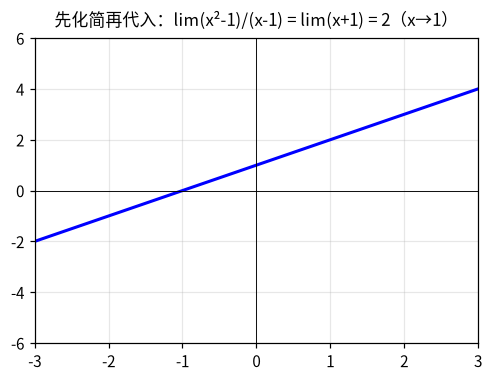
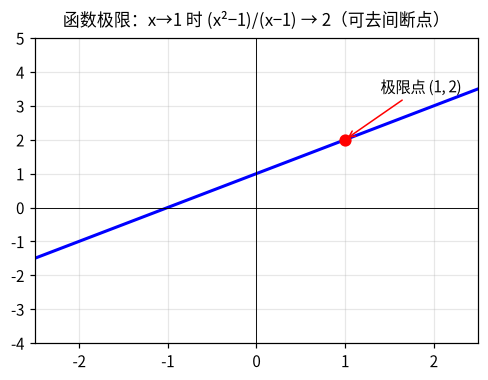
每日清单 2026-08-15

diff --git a/index.html b/index.html
@@ -57,9 +57,9 @@
 <div class="card open">
   <div class="card-head"><span class="arrow">▶</span><span class="card-title">🧩 LeetCode 每日一题：Maximum Length Substring With Two Occurrences</span><span class="tag easy">Easy</span></div>
   <div class="card-body">
-    <div class="q">给你一个字符串 s，请你找出满足「每个字符至多出现两次」的最长子串的长度。示例 1：s = "bcbbbcba"，输出 4，最长满足条件的子串为 "bcba"（b 出现 2 次、c 出现 1 次、a 出现 1 次）。示例 2：s = "aaaa"，输出 2。</div>
-    <div class="exp"><b>💡 解题思路：</b>滑动窗口：用右指针扩展窗口并把新字符计数加 1，一旦某字符出现次数超过 2，就用左指针收缩窗口直到重新满足条件；每次用当前窗口长度更新答案。窗口内始终保持所有字符频次 ≤ 2。</div>
-    <div class="exp"><b>🔧 题解：</b>双指针滑动窗口，一次遍历即可求出全局最长合法子串：窗口合法 ⇔ 每个字符频次 ≤ 2。时间复杂度 O(n)（每个字符至多进出窗口一次），空间复杂度 O(1)（仅需统计 26 个小写字母）。题目规模 n ≤ 50，暴力枚举所有子串 O(n²) 也可行，但滑动窗口是最优写法。</div>
+    <div class="q">给你一个字符串 s，请找出满足「每个字符至多出现两次」的最长子串的长度。示例 1：s = "bcbbbcba"，最长合法子串为 "bcba"（b 出现 2 次、c 出现 1 次、a 出现 1 次），答案为 4。示例 2：s = "aaaa"，每个字符至多出现 2 次，答案为 2。</div>
+    <div class="exp"><b>💡 解题思路：</b>滑动窗口（双指针）：右指针逐个加入字符并计数，一旦某字符频次超过 2，就左移左指针并减少对应计数，直到窗口重新合法；每次用 right − left + 1 更新答案。窗口内任意时刻所有字符频次 ≤ 2。</div>
+    <div class="exp"><b>🔧 题解：</b>一次遍历 O(n)：每个字符最多进、出窗口各一次；只需统计 26 个小写字母，计数数组/字典空间 O(1)。本题 n ≤ 50，暴力枚举所有子串 O(n²) 也可行，但滑动窗口是经典双指针模板写法，务必掌握。</div>
     <pre class="code">class Solution:
     def maximumLengthSubstring(self, s: str) -&gt; int:
         cnt = {}
@@ -77,108 +77,108 @@
 </div>
 <div class="group"><div class="group-title">📐 数学知识点 <span class="badge">4 项</span></div>
 <div class="card open">
-  <div class="card-head"><span class="arrow">▶</span><span class="card-title">📐 高数·第1天·极限：数列极限ε-N定义</span><span class="tag book">D1</span></div>
+  <div class="card-head"><span class="arrow">▶</span><span class="card-title">📐 高数·第1天·极限：数列极限 ε-N 定义</span><span class="tag book">D1</span></div>
   <div class="card-body">
-    <div class="q">lim x_n=a ⟺ ∀ε&gt;0,∃N, n&gt;N⟹|x_n-a|&lt;ε</div>
-    <div class="exp"><b>📌 要点：</b>量词顺序：先ε后N</div>
-    
-    <div class="exp" style="margin-top:6px">对任意<b style="color:#d48806">＿＿＿</b>，存在<b style="color:#d48806">＿＿＿</b>，当n&gt;N时恒有<b style="color:#d48806">＿＿＿</b></div><button class="ans-btn" style="font-size:12px;padding:4px 12px">✅ 答案</button><div class="ans-box"><div class="ans">ε&gt;0；正整数N；|x_n-a|&lt;ε</div></div>
-    
+    <div class="q">lim(n→∞) x_n = a ⟺ ∀ε&gt;0，∃N∈N*，当 n&gt;N 时恒有 |x_n − a| &lt; ε</div>
+    <div class="exp"><b>📌 要点：</b>核心是量词顺序「先 ε 后 N」：ε 任意小刻画逼近程度，N = N(ε) 刻画『足够远』，ε 越小 N 通常越大。数列极限只与后面无穷多项有关，改变或删去前有限项不影响极限。</div>
+    <div class="exp">• ε 的任意性：必须对任意 ε&gt;0 都成立，ε 越小要求越高</div><div class="exp">• N 的存在性：N 一般依赖 ε，记作 N(ε)，只要求存在、不要求最小</div><div class="exp">• 收敛数列必有界，且极限唯一（有界是收敛的必要条件，非充分）</div>
+    <div class="exp" style="margin-top:6px">对任意<b style="color:#d48806">＿＿＿</b>，存在<b style="color:#d48806">＿＿＿</b>，当 n&gt;N 时恒有<b style="color:#d48806">＿＿＿</b></div><button class="ans-btn" style="font-size:12px;padding:4px 12px">✅ 答案</button><div class="ans-box"><div class="ans">ε&gt;0；正整数 N；|x_n − a| &lt; ε</div></div>
+    <div class="exp"><b>🧭 套路：</b>证明套路：由 |x_n − a| 放大估计出 n 的下界，令 N 取该下界的取整加 1，再按定义格式书写。</div>
     
   </div>
  </div>
 <div class="card open">
-  <div class="card-head"><span class="arrow">▶</span><span class="card-title">📐 高数·第1天·极限：函数极限ε-δ定义</span><span class="tag book">D1</span></div>
+  <div class="card-head"><span class="arrow">▶</span><span class="card-title">📐 高数·第1天·极限：函数极限 ε-δ 定义</span><span class="tag book">D1</span></div>
   <div class="card-body">
-    <div class="q">lim f(x)=A ⟺ ∀ε&gt;0,∃δ&gt;0, 0&lt;|x-x0|&lt;δ⟹|f(x)-A|&lt;ε</div>
-    <div class="exp"><b>📌 要点：</b>δ是去心邻域半径，x≠x0</div>
-    
-    <div class="exp" style="margin-top:6px">对任意<b style="color:#d48806">＿＿＿</b>，存在<b style="color:#d48806">＿＿＿</b>，当0&lt;|x-x0|&lt;δ时恒有<b style="color:#d48806">＿＿＿</b></div><button class="ans-btn" style="font-size:12px;padding:4px 12px">✅ 答案</button><div class="ans-box"><div class="ans">ε&gt;0；δ&gt;0；|f(x)-A|&lt;ε</div></div>
-    
-    
+    <div class="q">lim(x→x₀) f(x) = A ⟺ ∀ε&gt;0，∃δ&gt;0，当 0&lt;|x − x₀|&lt;δ 时恒有 |f(x) − A| &lt; ε</div>
+    <div class="exp"><b>📌 要点：</b>δ 是 x₀ 的去心邻域半径，条件 0&lt;|x−x₀| 强调 x≠x₀：极限与 f(x₀) 是否有定义、取何值无关（如 (x²−1)/(x−1) 在 x=1 处无定义，但极限为 2）。δ 一般依赖 ε，也随 x₀ 变化。</div>
+    <div class="exp">• 去心邻域：0&lt;|x−x₀|&lt;δ，极限与 f(x₀) 无关</div><div class="exp">• δ=δ(ε)：δ 随 ε 变小而变小，证明时先放缩再取 δ</div><div class="exp">• 单侧极限：左、右极限存在且相等 ⟺ 极限存在</div>
+    <div class="exp" style="margin-top:6px">对任意<b style="color:#d48806">＿＿＿</b>，存在<b style="color:#d48806">＿＿＿</b>，当 0&lt;|x−x₀|&lt;δ 时恒有<b style="color:#d48806">＿＿＿</b></div><button class="ans-btn" style="font-size:12px;padding:4px 12px">✅ 答案</button><div class="ans-box"><div class="ans">ε&gt;0；δ&gt;0；|f(x) − A| &lt; ε</div></div>
+    <div class="exp"><b>🧭 套路：</b>证明套路：先把 |f(x)−A| 放缩成 k·|x−x₀| 的形式，再取 δ = ε/k（必要时加限制 δ≤1 处理分母）。</div>
+    <img src="images/2026-08-15_1.png" style="width:100%;border-radius:10px;margin-top:10px;border:1px solid #e5e7eb">
   </div>
  </div>
 <div class="card open">
   <div class="card-head"><span class="arrow">▶</span><span class="card-title">📐 线代·行列式与矩阵：余子式与代数余子式</span><span class="tag book">行列式与矩阵</span></div>
   <div class="card-body">
-    <div class="q">A_ij=(-1)^(i+j)M_ij；|A|=Σa_ijA_ij</div>
-    <div class="exp"><b>📌 要点：</b>余子式：删去i行j列的n-1阶行列式；代数余子式带符号；按行(列)展开定理；异行元素×另一行代数余子式之和=0</div>
-    
-    <div class="exp" style="margin-top:6px">默写核心结论：<b style="color:#d48806">＿＿＿</b></div><button class="ans-btn" style="font-size:12px;padding:4px 12px">✅ 答案</button><div class="ans-box"><div class="ans">A_ij=(-1)^(i+j)M_ij；|A|=Σa_ijA_ij</div></div>
-    
+    <div class="q">M_ij 为余子式；A_ij = (−1)^(i+j)·M_ij；|A| = Σ a_ij·A_ij（按第 i 行展开）</div>
+    <div class="exp"><b>📌 要点：</b>余子式 M_ij：划去第 i 行、第 j 列后剩下的 n−1 阶行列式；代数余子式 A_ij = (−1)^(i+j)·M_ij。按行（列）展开定理：|A| 等于任一行（列）的元素与其对应代数余子式乘积之和，这是高阶行列式降阶计算的核心工具。</div>
+    <div class="exp">• 符号规律：符号 (−1)^(i+j) 呈棋盘状交替，主对角线方向为 + − +</div><div class="exp">• 展开定理：任选一行（列）展开均相等，选 0 最多的行（列）计算量最小</div><div class="exp">• 异乘变零：第 i 行元素与第 j 行（i≠j）对应代数余子式乘积之和 = 0</div>
+    <div class="exp" style="margin-top:6px">默写核心结论：<b style="color:#d48806">＿＿＿</b></div><button class="ans-btn" style="font-size:12px;padding:4px 12px">✅ 答案</button><div class="ans-box"><div class="ans">A_ij = (−1)^(i+j)·M_ij；|A| = Σ a_ij·A_ij</div></div>
+    <div class="exp"><b>🧭 套路：</b>高阶行列式先做行（列）变换化出 0，再按 0 最多的行（列）展开降阶，直到化成三角行列式或二阶。</div>
     
   </div>
  </div>
 <div class="card open">
   <div class="card-head"><span class="arrow">▶</span><span class="card-title">📐 线代·行列式与矩阵：初等矩阵</span><span class="tag book">行列式与矩阵</span></div>
   <div class="card-body">
-    <div class="q">E(i,j)、E(i(k))、E(ij(k))；|E(i,j)|=-1,|E(i(k))|=k,|E(ij(k))|=1</div>
-    <div class="exp"><b>📌 要点：</b>单位阵经一次初等变换；三种类型；逆为同类型初等矩阵；行变换左乘、列变换右乘</div>
-    
-    <div class="exp" style="margin-top:6px">默写核心结论：<b style="color:#d48806">＿＿＿</b></div><button class="ans-btn" style="font-size:12px;padding:4px 12px">✅ 答案</button><div class="ans-box"><div class="ans">E(i,j)、E(i(k))、E(ij(k))；|E(i,j)|=-1,|E(i(k))|=k,|E(ij(k))|=1</div></div>
-    
-    
+    <div class="q">E(i,j)、E(i(k))、E(ij(k))；|E(i,j)| = −1，|E(i(k))| = k，|E(ij(k))| = 1</div>
+    <div class="exp"><b>📌 要点：</b>初等矩阵 = 单位阵 E 经一次初等变换所得：E(i,j) 交换 i、j 两行（列）；E(i(k)) 第 i 行乘非零常数 k；E(ij(k)) 把第 j 行（列）的 k 倍加到第 i 行（列）。左乘作行变换、右乘作列变换；初等矩阵均可逆，逆仍为同类型初等矩阵。</div>
+    <div class="exp">• 左乘行变、右乘列变：E·A 相当于对 A 做相应行变换，A·E 做列变换</div><div class="exp">• 行列式：|E(i,j)| = −1、|E(i(k))| = k、|E(ij(k))| = 1（初等矩阵均可逆 ⟹ 行列式 ≠ 0）</div><div class="exp">• 逆矩阵：E(i,j)⁻¹ = E(i,j)，E(i(k))⁻¹ = E(i(1/k))，E(ij(k))⁻¹ = E(ij(−k))</div>
+    <div class="exp" style="margin-top:6px">默写核心结论：<b style="color:#d48806">＿＿＿</b></div><button class="ans-btn" style="font-size:12px;padding:4px 12px">✅ 答案</button><div class="ans-box"><div class="ans">E(i,j)、E(i(k))、E(ij(k))；|E(i,j)| = −1，|E(i(k))| = k，|E(ij(k))| = 1</div></div>
+    <div class="exp"><b>🧭 套路：</b>快速判断：先看是否由单位阵一次初等变换得到；做题时先确定是行变换还是列变换（左乘/右乘），再套行列式结论。</div>
+    <img src="images/2026-08-15_3.png" style="width:100%;border-radius:10px;margin-top:10px;border:1px solid #e5e7eb">
   </div>
  </div>
 </div>
 <div class="group"><div class="group-title">💻 408 选择题 <span class="badge">5 题</span></div>
 <div class="card open">
-  <div class="card-head"><span class="arrow">▶</span><span class="card-title">设 F(1)=F(2)=1，当 n≥3 时 F(n)=F(n-1)+F(n-2)。若用直接递归算法计算 F(n)，且每次递归调用仅需常数级辅助空间，则该算法的时间复杂度和空间复杂度分别是（　）？</span><span class="tag book">数据结构</span><span class="tag easy">简单</span></div>
+  <div class="card-head"><span class="arrow">▶</span><span class="card-title">在一个长度为 100 的顺序表中插入一个新元素，若插入位置（含表尾共 101 个位置）等概率，则平均需要移动的元素个数是（　）。</span><span class="tag book">数据结构</span><span class="tag easy">简单</span></div>
   <div class="card-body">
-    <div class="q"><div class="opt">A. O(2ⁿ)、O(n)</div><div class="opt">B. O(2ⁿ)、O(2ⁿ)</div><div class="opt">C. O(n²)、O(n)</div><div class="opt">D. O(n)、O(n)</div></div>
-    
-    <button class="ans-btn">✅ 查看答案与解析</button>
-    <div class="ans-box">
-      <div class="ans">答案：A</div>
-      <div class="exp"><b>📖 解析：</b>直接递归计算斐波那契会展开成一棵递归二叉树，结点总数约为 2ⁿ 量级，因此时间 O(2ⁿ)。而空间复杂度看的是递归工作栈的最大深度：从 F(n) 一路递归到 F(1)，调用栈最深为 n 层，每层仅常数空间，故空间 O(n)。考点回顾：算法的时间复杂度取决于基本操作执行次数（递归树结点数），空间复杂度取决于递归栈的最大深度，二者不要混淆。</div>
-    </div>
-  </div>
- </div>
-<div class="card open">
-  <div class="card-head"><span class="arrow">▶</span><span class="card-title">某 CPU 主频为 2 GHz，运行某程序时平均 CPI 为 4，则该程序在该 CPU 上的运行速度约为（　）MIPS？</span><span class="tag book">计组</span><span class="tag easy">简单</span></div>
-  <div class="card-body">
-    <div class="q"><div class="opt">A. 250</div><div class="opt">B. 500</div><div class="opt">C. 1000</div><div class="opt">D. 2000</div></div>
+    <div class="q"><div class="opt">A. 49</div><div class="opt">B. 50</div><div class="opt">C. 51</div><div class="opt">D. 99</div></div>
     
     <button class="ans-btn">✅ 查看答案与解析</button>
     <div class="ans-box">
       <div class="ans">答案：B</div>
-      <div class="exp"><b>📖 解析：</b>每秒执行的指令条数 = 主频 / CPI = 2×10⁹ / 4 = 5×10⁸ 条，即 500 MIPS。也可直接套公式 MIPS = f / (CPI×10⁶) = 2000 / 4 = 500。注意 CPI 越大说明每条指令平均耗时越长，速度越慢；且 MIPS 只在同指令集体系下可比，跨体系比较可能失真（可用 MFLOPS 或运行时间补充衡量）。考点回顾：主频、CPI、指令条数与执行时间的关系为 T = 指令数 × CPI / 主频。</div>
+      <div class="exp"><b>📖 解析：</b>在第 i 个位置（1≤i≤n+1）插入需移动 n−i+1 个元素，等概率时平均移动次数 = (n + (n−1) + … + 0) / (n+1) = n/2 = 50。注意插入有 n+1 个可能位置，所以平均是 n/2 而不是 (n+1)/2；对比删除操作：删除有 n 个可能位置，平均移动 (n−1)/2 个。两者时间复杂度都是 O(n)，这正是顺序表插入删除低效的根源（随机存取、物理连续）。</div>
     </div>
   </div>
  </div>
 <div class="card open">
-  <div class="card-head"><span class="arrow">▶</span><span class="card-title">下列关于系统调用的叙述中，正确的是（　）？</span><span class="tag book">OS</span><span class="tag mid">中等</span></div>
+  <div class="card-head"><span class="arrow">▶</span><span class="card-title">某程序的串行部分占 40%，其余 60% 可并行执行。若将并行部分加速到原来的 4 倍，则整个程序的加速比约为（　）。</span><span class="tag book">计算机组成原理</span><span class="tag easy">简单</span></div>
   <div class="card-body">
-    <div class="q"><div class="opt">A. 陷入指令（访管指令）由内核态执行，用于完成系统调用服务</div><div class="opt">B. 系统调用与库函数完全等价，所有库函数都是系统调用的封装</div><div class="opt">C. 用户程序通过陷入指令请求操作系统内核服务，执行时 CPU 由用户态切换到内核态</div><div class="opt">D. 系统调用的参数只能通过寄存器传递，不能存放在内存中</div></div>
+    <div class="q"><div class="opt">A. 1.56</div><div class="opt">B. 1.82</div><div class="opt">C. 2.17</div><div class="opt">D. 2.50</div></div>
+    
+    <button class="ans-btn">✅ 查看答案与解析</button>
+    <div class="ans-box">
+      <div class="ans">答案：B</div>
+      <div class="exp"><b>📖 解析：</b>Amdahl 定律：S = 1 / ((1−f) + f/k)，其中 f = 0.6 为可加速部分占比，k = 4 为该部分加速倍数，1−f = 0.4 为不可加速部分。代入得 S = 1 / (0.4 + 0.6/4) = 1 / 0.55 ≈ 1.82。关键结论：即使并行部分无限加速（k→∞），加速比也至多趋近 1/(1−f) = 2.5——串行部分占比是性能瓶颈，这就是 Amdahl 定律的核心思想。</div>
+    </div>
+  </div>
+ </div>
+<div class="card open">
+  <div class="card-head"><span class="arrow">▶</span><span class="card-title">下列关于进程的叙述中，正确的是（　）。</span><span class="tag book">操作系统</span><span class="tag mid">中等</span></div>
+  <div class="card-body">
+    <div class="q"><div class="opt">A. 进程是程序的一次执行过程，一个程序只能对应一个进程</div><div class="opt">B. 进程具有动态性、并发性、独立性、异步性，其中并发性指进程按各自独立的、不可预知的速度向前推进</div><div class="opt">C. 进程是资源分配的基本单位，线程是 CPU 调度的基本单位，同一进程内的线程共享该进程的资源</div><div class="opt">D. 进程与程序都是动态的概念，二者的区别仅在于进程分配了内存而程序没有</div></div>
     
     <button class="ans-btn">✅ 查看答案与解析</button>
     <div class="ans-box">
       <div class="ans">答案：C</div>
-      <div class="exp"><b>📖 解析：</b>A 错：陷入指令本身在用户态执行，它的作用是引起中断、把 CPU 从用户态切换到内核态，真正执行系统调用服务程序的是内核。B 错：部分库函数（如 printf 内部调用 write）确实封装了系统调用，但大量纯计算类库函数（如 strlen、sqrt）不涉及系统调用。C 对：陷入指令是用户程序请求内核服务的唯一途径，执行后特权级由用户态切换为内核态。D 错：系统调用参数可通过寄存器、堆栈或内存块等传递。考点回顾：系统调用 = 陷入指令（用户态执行）+ 内核态服务程序，参数传递方式多样。</div>
+      <div class="exp"><b>📖 解析：</b>A 错：一个程序可对应多个进程（如多用户同时运行同一程序，各有一个进程）。B 错：把两个特征的定义说反了——并发性指多个进程同存于内存中、在一段时间内交替运行；异步性才指进程按各自独立的、不可预知的速度向前推进。C 对：引入线程后，进程是资源分配的基本单位，线程是调度的基本单位，同一进程的线程共享地址空间与资源。D 错：程序是静态的（指令序列），进程是动态的（程序的一次执行），且进程拥有 PCB 等结构，区别远不止内存分配。</div>
     </div>
   </div>
  </div>
 <div class="card open">
-  <div class="card-head"><span class="arrow">▶</span><span class="card-title">在 TCP/IP 五层参考模型中，数据链路层的协议数据单元（PDU）是（　）？</span><span class="tag book">网络</span><span class="tag easy">简单</span></div>
+  <div class="card-head"><span class="arrow">▶</span><span class="card-title">下列关于编码与调制的叙述中，正确的是（　）。</span><span class="tag book">计算机网络</span><span class="tag easy">简单</span></div>
   <div class="card-body">
-    <div class="q"><div class="opt">A. 报文（message）</div><div class="opt">B. 报文段（segment）</div><div class="opt">C. 数据报（packet）</div><div class="opt">D. 帧（frame）</div></div>
-    <img src="images/2026-08-15_p3.png" style="width:100%;border-radius:10px;margin-top:10px;border:1px solid #e5e7eb">
-    <button class="ans-btn">✅ 查看答案与解析</button>
-    <div class="ans-box">
-      <div class="ans">答案：D</div>
-      <div class="exp"><b>📖 解析：</b>各层 PDU 名称：应用层为报文（message），传输层为报文段（segment），网络层为数据报/分组（packet），数据链路层为帧（frame），物理层为比特流。发送端自上而下逐层封装（每层加首部），接收端自下而上逐层解封装，这正是数据封装与解封装的过程。注意传输层的 PDU 在 TCP 中叫报文段、在 UDP 中叫用户数据报，不要与网络层的 IP 数据报混淆。</div>
-    </div>
-  </div>
- </div>
-<div class="card open">
-  <div class="card-head"><span class="arrow">▶</span><span class="card-title">下列关于网络协议三要素的叙述中，正确的是（　）？</span><span class="tag book">网络</span><span class="tag hard">困难</span></div>
-  <div class="card-body">
-    <div class="q"><div class="opt">A. 语法规定通信双方应完成的操作与应作出的响应</div><div class="opt">B. 语义规定数据与控制信息的结构或格式</div><div class="opt">C. 同步（时序）详细说明事件实现顺序的规则</div><div class="opt">D. 三要素中语义最为核心，其余要素可以省略</div></div>
+    <div class="q"><div class="opt">A. 曼彻斯特编码在每个码元中间发生电平跳变，该跳变兼作时钟与数据信号，因此还需要额外的同步时钟线</div><div class="opt">B. 差分曼彻斯特编码在每个码元开始处有跳变表示 0、无跳变表示 1，中间跳变仅作时钟，抗干扰能力较强</div><div class="opt">C. 调制是把数字信号转换成数字信号的过程，编码是把模拟信号转换成数字信号的过程</div><div class="opt">D. 4B/5B 编码是曼彻斯特编码的改进，编码效率为 50%</div></div>
     
     <button class="ans-btn">✅ 查看答案与解析</button>
     <div class="ans-box">
-      <div class="ans">答案：C</div>
-      <div class="exp"><b>📖 解析：</b>协议三要素：语法——数据与控制信息的结构或格式；语义——发出何种控制信息、完成何种动作以及作出何种应答；同步（时序）——事件实现顺序的详细说明。A 错：把语法与语义说反了，规定「做什么」的是语义而非语法。B 错：把语义与语法说反了，规定「格式」的是语法而非语义。D 错：三要素缺一不可、没有主次之分，同步（时序）恰恰是协议区别于一般约定的关键所在。考点回顾：记忆口诀「语法看格式、语义看动作、同步看顺序」。</div>
+      <div class="ans">答案：B</div>
+      <div class="exp"><b>📖 解析：</b>A 错：曼彻斯特编码的中间跳变既作时钟又作数据，自含时钟，无需额外时钟线。B 对：差分曼彻斯特编码看码元开始处有无跳变来区分 0/1（有跳变表示 0、无跳变表示 1），中间跳变只作时钟，抗干扰能力强，常用于令牌环网。C 错：概念颠倒——编码是数字→数字（NRZ、曼彻斯特、4B/5B），调制是数字→模拟（ASK、FSK、PSK）。D 错：4B/5B 用 5 位码组表示 4 位数据，效率 80%，它改进的是曼彻斯特编码效率只有 50% 的缺点。</div>
+    </div>
+  </div>
+ </div>
+<div class="card open">
+  <div class="card-head"><span class="arrow">▶</span><span class="card-title">某信道带宽为 3000 Hz，信噪比为 30 dB。根据香农定理，该信道能达到的最大无差错数据传输率约为（　）。（log2 1001 ≈ 9.97）</span><span class="tag book">计算机网络</span><span class="tag hard">困难</span></div>
+  <div class="card-body">
+    <div class="q"><div class="opt">A. 9.97 kbps</div><div class="opt">B. 29.9 kbps</div><div class="opt">C. 30.9 kbps</div><div class="opt">D. 90 kbps</div></div>
+    
+    <button class="ans-btn">✅ 查看答案与解析</button>
+    <div class="ans-box">
+      <div class="ans">答案：B</div>
+      <div class="exp"><b>📖 解析：</b>先做 dB 换算：信噪比 30 dB ⟹ S/N = 10^(30/10) = 1000。香农公式 C = W·log2(1 + S/N) = 3000 × log2(1001) ≈ 3000 × 9.97 ≈ 29.9 kbps。两个易错点：① 题目给的是 dB 值必须换算成倍数，很多同学直接代入 30 或漏换算；② 香农公式给出的是有噪声信道无差错传输的极限速率（与奈奎斯特定理对比：奈奎斯特给的是无噪声下极限码元速率 2W，且与进制数 M 有关：2W·log2 M）。本题若直接用 10 代替 log2 1001 得 30 kbps 属近似，精确值约 29.9 kbps。</div>
     </div>
   </div>
  </div>
@@ -186,47 +186,47 @@
 <div class="group"><div class="group-title">🇬🇧 考研单词 <span class="badge">20 词</span></div>
 <div class="card open">
   <div class="card-head"><span class="arrow">▶</span><span class="card-title">🇬🇧 考研单词 ×20</span><span class="tag book">高频词</span></div>
-  <div class="card-body"><div class="word-row"><span class="word">see</span><span class="phon">/.../</span></div>
-      <div class="def">看</div>
-      <div class="example">✏ 考研真题例句：看</div><hr style="border:none;border-top:1px solid #eee;margin:8px 0"><div class="word-row"><span class="word">three</span><span class="phon">/.../</span></div>
-      <div class="def">三</div>
-      <div class="example">✏ 考研真题例句：三</div><hr style="border:none;border-top:1px solid #eee;margin:8px 0"><div class="word-row"><span class="word">those</span><span class="phon">/.../</span></div>
-      <div class="def">那些</div>
-      <div class="example">✏ 考研真题例句：那些</div><hr style="border:none;border-top:1px solid #eee;margin:8px 0"><div class="word-row"><span class="word">end</span><span class="phon">/.../</span></div>
-      <div class="def">结束</div>
-      <div class="example">✏ 考研真题例句：结束</div><hr style="border:none;border-top:1px solid #eee;margin:8px 0"><div class="word-row"><span class="word">once</span><span class="phon">/.../</span></div>
-      <div class="def">曾经、一次</div>
-      <div class="example">✏ 考研真题例句：曾经、一次</div><hr style="border:none;border-top:1px solid #eee;margin:8px 0"><div class="word-row"><span class="word">company</span><span class="phon">/.../</span></div>
-      <div class="def">公司、陪伴</div>
-      <div class="example">✏ 考研真题例句：公司、陪伴</div><hr style="border:none;border-top:1px solid #eee;margin:8px 0"><div class="word-row"><span class="word">conversation</span><span class="phon">/.../</span></div>
-      <div class="def">对话</div>
-      <div class="example">✏ 考研真题例句：对话</div><hr style="border:none;border-top:1px solid #eee;margin:8px 0"><div class="word-row"><span class="word">problem</span><span class="phon">/.../</span></div>
-      <div class="def">问题</div>
-      <div class="example">✏ 考研真题例句：问题</div><hr style="border:none;border-top:1px solid #eee;margin:8px 0"><div class="word-row"><span class="word">university</span><span class="phon">/.../</span></div>
-      <div class="def">大学</div>
-      <div class="example">✏ 考研真题例句：大学</div><hr style="border:none;border-top:1px solid #eee;margin:8px 0"><div class="word-row"><span class="word">human</span><span class="phon">/.../</span></div>
-      <div class="def">人</div>
-      <div class="example">✏ 考研真题例句：人</div><hr style="border:none;border-top:1px solid #eee;margin:8px 0"><div class="word-row"><span class="word">state</span><span class="phon">/.../</span></div>
-      <div class="def">陈述、状态</div>
-      <div class="example">✏ 考研真题例句：陈述、状态</div><hr style="border:none;border-top:1px solid #eee;margin:8px 0"><div class="word-row"><span class="word">want</span><span class="phon">/.../</span></div>
-      <div class="def">想要</div>
-      <div class="example">✏ 考研真题例句：想要</div><hr style="border:none;border-top:1px solid #eee;margin:8px 0"><div class="word-row"><span class="word">must</span><span class="phon">/.../</span></div>
-      <div class="def">必须</div>
-      <div class="example">✏ 考研真题例句：必须</div><hr style="border:none;border-top:1px solid #eee;margin:8px 0"><div class="word-row"><span class="word">food</span><span class="phon">/.../</span></div>
-      <div class="def">食物</div>
-      <div class="example">✏ 考研真题例句：食物</div><hr style="border:none;border-top:1px solid #eee;margin:8px 0"><div class="word-row"><span class="word">country</span><span class="phon">/.../</span></div>
-      <div class="def">国家</div>
-      <div class="example">✏ 考研真题例句：国家</div><hr style="border:none;border-top:1px solid #eee;margin:8px 0"><div class="word-row"><span class="word">choose</span><span class="phon">/.../</span></div>
-      <div class="def">选择</div>
-      <div class="example">✏ 考研真题例句：选择</div><hr style="border:none;border-top:1px solid #eee;margin:8px 0"><div class="word-row"><span class="word">any</span><span class="phon">/.../</span></div>
-      <div class="def">任何</div>
-      <div class="example">✏ 考研真题例句：任何</div><hr style="border:none;border-top:1px solid #eee;margin:8px 0"><div class="word-row"><span class="word">my</span><span class="phon">/.../</span></div>
-      <div class="def">我的</div>
-      <div class="example">✏ 考研真题例句：我的</div><hr style="border:none;border-top:1px solid #eee;margin:8px 0"><div class="word-row"><span class="word">day</span><span class="phon">/.../</span></div>
-      <div class="def">日子</div>
-      <div class="example">✏ 考研真题例句：日子</div><hr style="border:none;border-top:1px solid #eee;margin:8px 0"><div class="word-row"><span class="word">less</span><span class="phon">/.../</span></div>
-      <div class="def">更少</div>
-      <div class="example">✏ 考研真题例句：更少</div><hr style="border:none;border-top:1px solid #eee;margin:8px 0"></div>
+  <div class="card-body"><div class="word-row"><span class="word">see</span><span class="phon">/siː/</span></div>
+      <div class="def">v. 看见；理解；明白</div>
+      <div class="example">✏ If you review every day, you will soon see great progress in your scores.</div><hr style="border:none;border-top:1px solid #eee;margin:8px 0"><div class="word-row"><span class="word">three</span><span class="phon">/θriː/</span></div>
+      <div class="def">num. 三；三个</div>
+      <div class="example">✏ The written exam consists of three parts: mathematics, English, and a professional course.</div><hr style="border:none;border-top:1px solid #eee;margin:8px 0"><div class="word-row"><span class="word">those</span><span class="phon">/ðəʊz/</span></div>
+      <div class="def">pron./adj. 那些</div>
+      <div class="example">✏ Those concepts in the textbook are the most frequently tested in the exam.</div><hr style="border:none;border-top:1px solid #eee;margin:8px 0"><div class="word-row"><span class="word">end</span><span class="phon">/end/</span></div>
+      <div class="def">n. 结束；末端；目的 v. 结束</div>
+      <div class="example">✏ By the end of this week, you should finish reviewing the data structure chapter.</div><hr style="border:none;border-top:1px solid #eee;margin:8px 0"><div class="word-row"><span class="word">once</span><span class="phon">/wʌns/</span></div>
+      <div class="def">adv. 一次；曾经 conj. 一旦</div>
+      <div class="example">✏ Once you master the basic algorithms, solving hard problems becomes much easier.</div><hr style="border:none;border-top:1px solid #eee;margin:8px 0"><div class="word-row"><span class="word">company</span><span class="phon">/ˈkʌmpəni/</span></div>
+      <div class="def">n. 公司；陪伴</div>
+      <div class="example">✏ Many graduates want to join a technology company after finishing their master's degree.</div><hr style="border:none;border-top:1px solid #eee;margin:8px 0"><div class="word-row"><span class="word">conversation</span><span class="phon">/ˌkɒnvəˈseɪʃn/</span></div>
+      <div class="def">n. 交谈，对话</div>
+      <div class="example">✏ The listening test usually includes a short conversation between two students.</div><hr style="border:none;border-top:1px solid #eee;margin:8px 0"><div class="word-row"><span class="word">problem</span><span class="phon">/ˈprɒbləm/</span></div>
+      <div class="def">n. 问题，难题</div>
+      <div class="example">✏ Solving a math problem step by step is better than memorizing the final answer.</div><hr style="border:none;border-top:1px solid #eee;margin:8px 0"><div class="word-row"><span class="word">university</span><span class="phon">/ˌjuːnɪˈvɜːsəti/</span></div>
+      <div class="def">n. 大学</div>
+      <div class="example">✏ She studies hard every day in order to be admitted to a top university.</div><hr style="border:none;border-top:1px solid #eee;margin:8px 0"><div class="word-row"><span class="word">human</span><span class="phon">/ˈhjuːmən/</span></div>
+      <div class="def">n. 人 adj. 人类的</div>
+      <div class="example">✏ Artificial intelligence is changing the way human beings work and live.</div><hr style="border:none;border-top:1px solid #eee;margin:8px 0"><div class="word-row"><span class="word">state</span><span class="phon">/steɪt/</span></div>
+      <div class="def">n. 状态；国家 v. 陈述，说明</div>
+      <div class="example">✏ A process has three basic states: ready, running, and blocked.</div><hr style="border:none;border-top:1px solid #eee;margin:8px 0"><div class="word-row"><span class="word">want</span><span class="phon">/wɒnt/</span></div>
+      <div class="def">v. 想要；需要；缺乏</div>
+      <div class="example">✏ You want to spend at least two hours a day on mathematics during the preparation period.</div><hr style="border:none;border-top:1px solid #eee;margin:8px 0"><div class="word-row"><span class="word">must</span><span class="phon">/mʌst/</span></div>
+      <div class="def">aux. 必须，一定</div>
+      <div class="example">✏ You must memorize the key formulas before doing the exercises.</div><hr style="border:none;border-top:1px solid #eee;margin:8px 0"><div class="word-row"><span class="word">food</span><span class="phon">/fuːd/</span></div>
+      <div class="def">n. 食物，食品</div>
+      <div class="example">✏ A balanced diet and enough sleep are as important as study during exam season.</div><hr style="border:none;border-top:1px solid #eee;margin:8px 0"><div class="word-row"><span class="word">country</span><span class="phon">/ˈkʌntri/</span></div>
+      <div class="def">n. 国家；乡村</div>
+      <div class="example">✏ Education in our country has developed rapidly over the past decades.</div><hr style="border:none;border-top:1px solid #eee;margin:8px 0"><div class="word-row"><span class="word">choose</span><span class="phon">/tʃuːz/</span></div>
+      <div class="def">v. 选择，挑选</div>
+      <div class="example">✏ You can choose the school that best fits your score and research interest.</div><hr style="border:none;border-top:1px solid #eee;margin:8px 0"><div class="word-row"><span class="word">any</span><span class="phon">/ˈeni/</span></div>
+      <div class="def">pron./adj. 任何；一些</div>
+      <div class="example">✏ If you have any questions about the syllabus, ask your teacher immediately.</div><hr style="border:none;border-top:1px solid #eee;margin:8px 0"><div class="word-row"><span class="word">my</span><span class="phon">/maɪ/</span></div>
+      <div class="def">pron. 我的</div>
+      <div class="example">✏ My study plan is strict, but it has brought steady improvement.</div><hr style="border:none;border-top:1px solid #eee;margin:8px 0"><div class="word-row"><span class="word">day</span><span class="phon">/deɪ/</span></div>
+      <div class="def">n. 天，日子；白天</div>
+      <div class="example">✏ Every day I review the knowledge points I learned the day before.</div><hr style="border:none;border-top:1px solid #eee;margin:8px 0"><div class="word-row"><span class="word">less</span><span class="phon">/les/</span></div>
+      <div class="def">adj./adv. 更少的；较少地</div>
+      <div class="example">✏ The more you practice, the less time you need to solve a single problem.</div><hr style="border:none;border-top:1px solid #eee;margin:8px 0"></div>
 </div>
 </div>
 <div class="footer">由 Hermes AI 生成 · 每天 08:00 更新 · 加油 💪</div>
